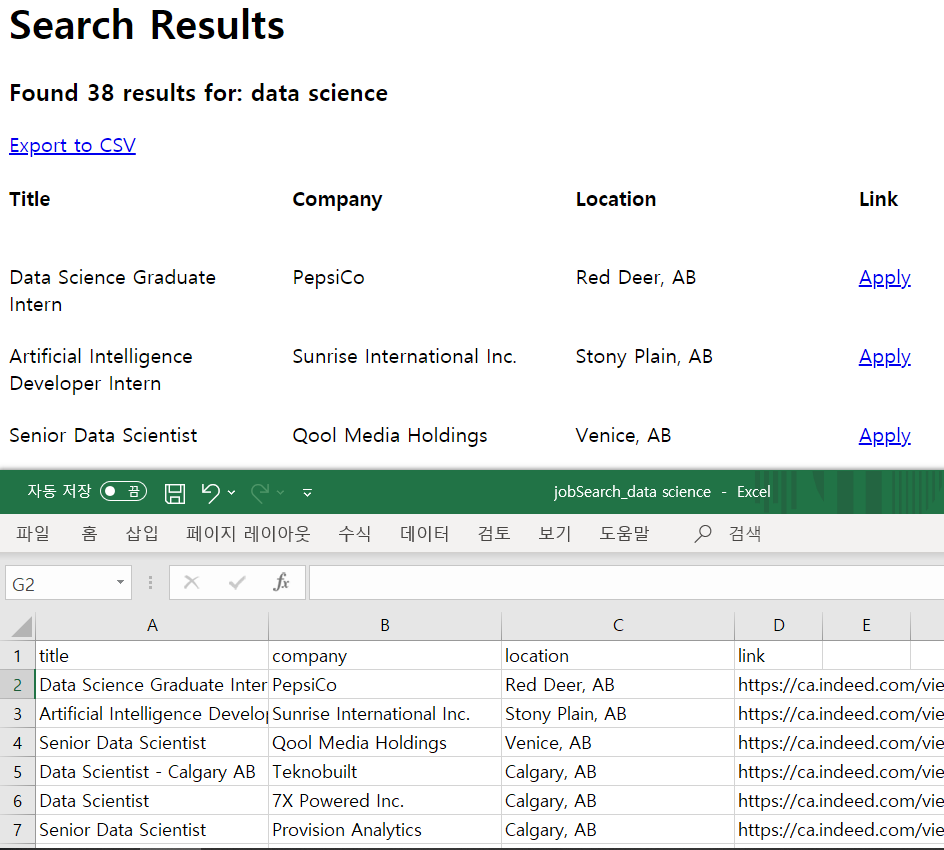
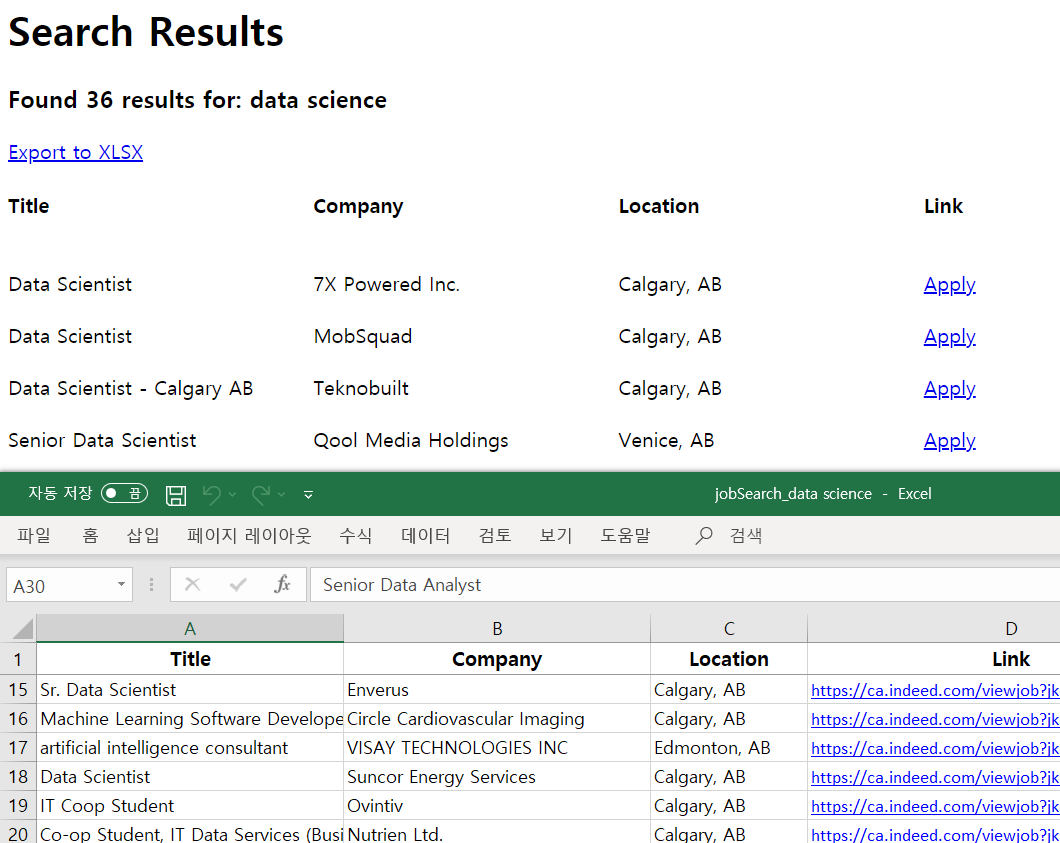
csv->xlsx

diff --git a/templates/report.html b/templates/report.html
@@ -13,7 +13,7 @@
     <body>
       <h1>Search Results</h1>
       <h3>Found {{resultNumber}} results for: {{searchingby}}</h3>
-      <a href="/export?word={{searchingby}}"> Export to xlsx</a>
+      <a href="/export?word={{searchingby}}"> Export to XLSX</a>
       <sectoin>
         <h4>Title</h4>
         <h4>Company</h4>

diff --git a/README.md b/README.md
@@ -1,7 +1,30 @@
 ## Job Scraper
 
 ### Description
-This scrapes job postings from Indeed and/or StackOverflow then writes the result to a CSV file.
+This scrapes job postings from Indeed and/or StackOverflow then writes the result to a XLSX file.
+<br /><br />
+<b>EDIT (Oct. 25, 2020)</b>
+<br />
+📢 CSV file -> XLSX file download 📢
+<br />
+The first row of the file is frozen, so this helps increase readability.
+<br />
+The XLSX file has 4 columns; title, company, location, and link.
+<br /><br />
+✅ Home:
+<br /><img src="img/search.PNG" width="60%" height="60%" />
+<br /><br />
+✅ Results (Oct.25, 2020) and XLSX file:
+<br /><img src="img/search2.PNG" width="80%" height="80%"/>
+<br /><br />
+<b>⚠ FYI ⚠ </b> Indeed removes job postings if the job posting is similar to those already shown. So the number of jobs and actual results can be different on the Indeed page. My program handles only displayed outputs.
+<br />
+✅ Indeed Result (Oct. 24, 2020):
+<br /><img src="img/indeedResult.PNG" width="60%" height="60%"/>
+<br />
+<br />
+✅ My Program Result (Oct. 24, 2020):
+<br /><img src="img/result.PNG" width="60%" height="60%"/>
 <br /><br />
 <b>EDIT (Oct. 24, 2020)</b>
 <br />
@@ -10,21 +33,6 @@ This scrapes job postings in Alberta, Canada from Indeed then displays results r
 You can check the results on the browser and download a CSV file.
 <br />
 The CSV file has 4 columns; title, company, location, and link.
-<br /><br />
-✔Home:
-<br /><img src="img/search.PNG" width="70%" height="70%" />
-<br /><br />
-✔Results and CSV file:
-<br /><img src="img/search2.PNG" width="80%" height="80%"/>
-<br /><br />
-<b>FYI:</b> Indeed removes job postings if the job posting is similar to those already shown. So the number of jobs and actual results can be different on the Indeed page. My program handles only displayed outputs.
-<br />
-✔Indeed Result:
-<br /><img src="img/indeedResult.PNG" width="70%" height="70%"/>
-<br />
-<br />
-✔My Program Result:
-<br /><img src="img/result.PNG" width="70%" height="70%"/>
 
 
 ### Skills
